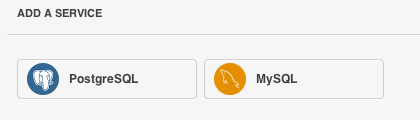
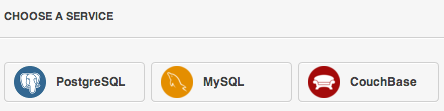
Renaming of sections and improvments for PHP compatibilty

diff --git a/_posts/services/2012-05-10-services.md b/_posts/services/2012-05-10-services.md
@@ -1,14 +1,21 @@
 ---
 layout: page
 
-title: Services
+title: Services overview
 tags:
 - Services
 ---
-#Services basics
+#Services overview
 
 The Clever Cloud allows you to use several services, like database (RDBMS, noSQL) or middleware. If you cannot find the services you need, please ask on <a href="mailto:support@clever-cloud.com">support@clever-cloud.com</a>.  
 
 ##Databases
- * You can use a [mySQL database](/mysql)
- * You can use a [PostgreSQL database](/postgresql)
+ * [mySQL ](/mysql)
+ * [PostgreSQL ](/postgresql)
+ * [CouchBase](/couchbase)
+
+## Video demo
+
+<p>
+<iframe style="width:738px" height="415" src="http://www.youtube.com/embed/6rJ8zQqIhUw?rel=0&autohide=1&showinfo=0" frameborder="0" controls="0"  allowfullscreen="allowfullscreen"> </iframe>  
+</p>

diff --git a/_posts/sbt/2012-05-10-sbt.md b/_posts/sbt/2012-05-10-sbt.md
@@ -1,16 +1,16 @@
 ---
 layout: page
 
-title: Sbt basics
+title: Scala overview
 tags:
 - Scala
 - Sbt
 
 ---
 
-# Sbt basics
+# Scala overview
 
-The Clever Cloud allows you to deploy an application built with simple build tool.
+The Clever Cloud allows you to deploy Scala and Java applications built with Simple Build Tool.
 This document will explain you how to set up your app to run on our service.
 
 You only need to meet two conditions.

diff --git a/index.md b/index.md
@@ -4,16 +4,16 @@ layout: home
 title: Home
 
 tutorials:
-- title: Java basics
+- title: Java
   url: /java/
   img: /img/java-start.png
-- title: Node basics
+- title: Node
   url: /node/
   img: /img/node-start.png
-- title: PHP basics
+- title: PHP
   url: /php/
   img: /img/php-start.png
-- title: SBT basics
+- title: Scala
   url: /sbt/
   img: /img/sbt-start.png
 

diff --git a/_posts/node/2012-05-10-node.md b/_posts/node/2012-05-10-node.md
@@ -1,14 +1,14 @@
 ---
 layout: page
 
-title: Node basics
+title: Node overview
 tags:
 - Javascript
 - Node.js
 
 ---
 
-# Node.js basics 
+# Node.js overview 
 
 The Clever Cloud allows you to deploy any node application. This document will
 explain you how to set up your app to run on our service.

diff --git a/_posts/php/2012-05-08-tested-php-cms.md b/_posts/php/2012-05-08-tested-php-cms.md
@@ -11,8 +11,7 @@ tags:
 The following list is the list of tested CMS by our team.
 
 **Note:** This list is not exhaustive and doesn't mean that other CMS can't work on the Clever Cloud platform.
-
-<div class="span4">
+<div class="">
 <table class="table table-bordered">
   <tbody>
     <tr>

diff --git a/_posts/php/2012-05-10-php.md b/_posts/php/2012-05-10-php.md
@@ -1,12 +1,12 @@
 ---
 layout: page
 
-title: PHP basics
+title: PHP overview
 tags:
 - PHP
 ---
 
-#PHP basics
+#PHP overview
 
 PHP is available on our platform with the version 5.3.23. You can use FTP or Git to deploy your applications.
 

diff --git a/_posts/java/2012-03-05-java-maven.md b/_posts/java/2012-03-05-java-maven.md
@@ -1,12 +1,12 @@
 ---
 layout: page
 
-title: Java+Maven
+title: Java + Maven
 tags:
 - Java
 ---
 
-#Java basics
+#Java + maven
 
 For now, Java can be deployed on the Clever Cloud using maven.
 

diff --git a/_posts/java/2012-02-02-play-framework.md b/_posts/java/2012-02-02-play-framework.md
@@ -7,7 +7,7 @@ tags:
 
 ---
 
-# <span class="label">Beta</span> Play Framework 
+#Play Framework 
 ####Table of Contents
 <ul style="list-style:none">
 	<li>

diff --git a/_posts/java/2012-03-15-java.md b/_posts/java/2012-03-15-java.md
@@ -1,7 +1,7 @@
 ---
 layout: page
 
-title: Java Basics
+title: Java overview
 tags:
 - Java
 ---
